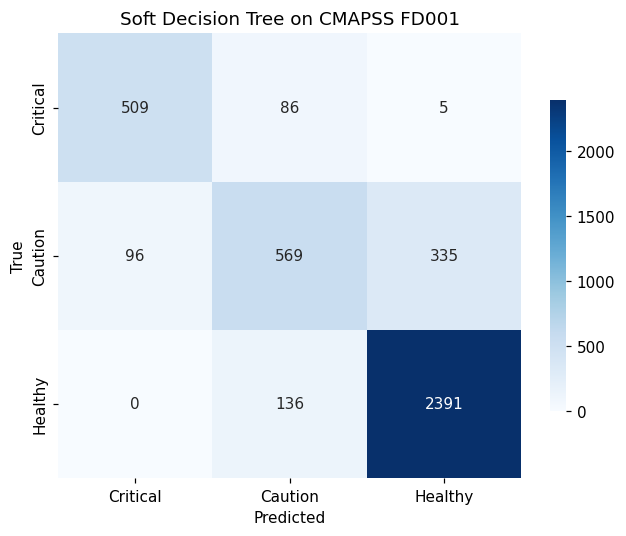
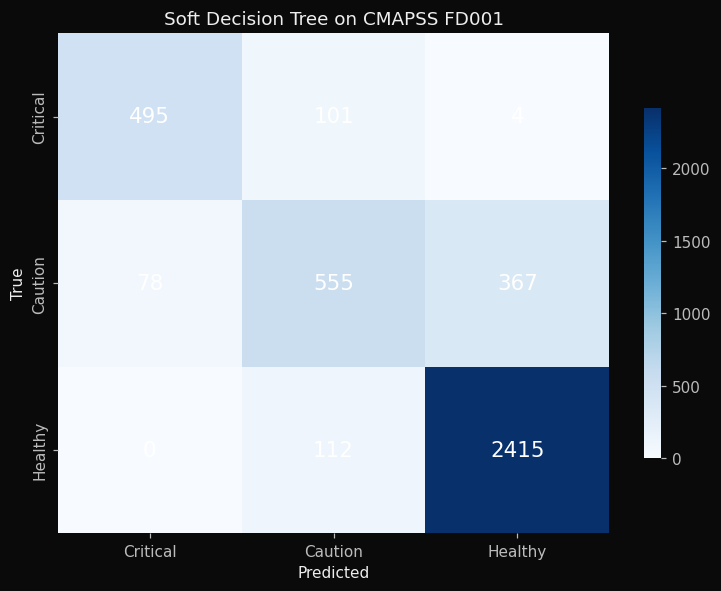
Polish step slides: dark plot facecolors, wider image columns, dataframe-shaped placeholders, fewer em-dashes
- Regenerate step9_confusion.png with dark facecolor to match slide background
  (previously had a default white background that looked like missing content)
- Add .image-card grid variant that gives the image 1.7x more space than the
  code block (Step 4 Engine 1, Step 9 Confusion, Steps 4/5/6 attack overlays)
- Replace placeholder bracket text in Step 2 and Step 3 outputs with realistic
  dataframe head() output
- Remove em-dashes from step hints and titles

diff --git a/slides/slides-cagri.html b/slides/slides-cagri.html
@@ -172,6 +172,16 @@
     border-radius: 4px;
     display: block;
   }
+  .step-card.image-card {
+    grid-template-columns: 1fr 1.7fr;
+  }
+  .step-card.image-card .step-code {
+    font-size: 0.38em;
+    line-height: 1.4;
+  }
+  .step-card.image-card .step-hint {
+    font-size: 0.44em;
+  }
   .step-tag {
     display: inline-block;
     background: #4FC3F7;
@@ -580,8 +590,12 @@ train.head()</div>
       <h4>You should see</h4>
       <div class="step-out">(20631, 26) -&gt; 100 engines
 
-[5 rows × 26 columns: engine_id,
- cycle, op1-3, s1-21]</div>
+   engine_id  cycle  op1  op2  s2  ...  s21
+0          1      1  0.0  0.0 642 ... 23.42
+1          1      2  0.0  0.0 642 ... 23.42
+2          1      3  0.0  0.0 642 ... 23.34
+3          1      4  0.0  0.0 642 ... 23.37
+4          1      5  0.0  0.0 642 ... 23.40</div>
       <p class="step-hint">100 turbofan engines, 20,631 timesteps total.</p>
     </div>
   </div>
@@ -600,13 +614,13 @@ train[['engine_id','cycle','max_cycle','RUL']].head()</div>
     </div>
     <div>
       <h4>You should see</h4>
-      <div class="step-out">   engine  cycle  max_cycle  RUL
-0       1      1        192  125
-1       1      2        192  125
-2       1      3        192  125
-3       1      4        192  125
-4       1      5        192  125</div>
-      <p class="step-hint">RUL capped at 125. Engine 1 lived 192 cycles total.</p>
+      <div class="step-out">   engine_id  cycle  max_cycle  RUL
+0          1      1        192  125
+1          1      2        192  125
+2          1      3        192  125
+3          1      4        192  125
+4          1      5        192  125</div>
+      <p class="step-hint">RUL capped at 125. Engine 1 lived 192 cycles in total.</p>
     </div>
   </div>
 </section>
@@ -614,13 +628,13 @@ train[['engine_id','cycle','max_cycle','RUL']].head()</div>
 <!-- ============ SLIDE A1-4: PLOT ENGINE 1 ============ -->
 <section class="step">
   <span class="step-tag">STEP 4 / 11</span><h2 style="display:inline">Visualize one engine's degradation</h2>
-  <div class="step-card">
+  <div class="step-card image-card">
     <div>
       <h4>Paste this</h4>
       <div class="step-code">engine = train[train['engine_id'] == 1].set_index('cycle')
 engine[['s2','s7','s11','s14']].plot(
     subplots=True, layout=(2,2), figsize=(12,6))
-plt.suptitle('Engine 1 — sensor degradation', y=1.02)
+plt.suptitle('Engine 1 sensor degradation', y=1.02)
 plt.tight_layout(); plt.show()</div>
       <p class="step-hint">s2, s11, s14 trend up. s7 trends down. The engine is wearing.</p>
     </div>
@@ -673,7 +687,7 @@ print('X shape:', X.shape, '· y shape:', y.shape)</div>
     <div>
       <h4>You should see</h4>
       <div class="step-out">X shape: (20631, 15) · y shape: (20631,)</div>
-      <p class="step-hint">15 of 21 sensors are informative. s1, s5, s10, s16, s18, s19 are constant — dropped.</p>
+      <p class="step-hint">15 of 21 sensors are informative. s1, s5, s10, s16, s18, s19 are constant and dropped.</p>
     </div>
   </div>
 </section>
@@ -734,7 +748,7 @@ Test accuracy: 0.841</div>
 <!-- ============ SLIDE A1-9: CONFUSION MATRIX ============ -->
 <section class="step">
   <span class="step-tag">STEP 9 / 11</span><h2 style="display:inline">Confusion matrix and per-class report</h2>
-  <div class="step-card">
+  <div class="step-card image-card">
     <div>
       <h4>Paste this</h4>
       <div class="step-code">labels = ['Critical', 'Caution', 'Healthy']
@@ -964,8 +978,8 @@ attack_C.csv: Tree   8/276 | RF   1/276</div>
 
 <!-- ============ SLIDE A2-4: ATTACK A ============ -->
 <section class="step">
-  <span class="step-tag a2">STEP 4 / 7</span><h2 style="display:inline">Attack A — look for two parallel lines</h2>
-  <div class="step-card">
+  <span class="step-tag a2">STEP 4 / 7</span><h2 style="display:inline">Attack A. Look for two parallel lines</h2>
+  <div class="step-card image-card">
     <div>
       <h4>Paste this</h4>
       <div class="step-code">clean = pd.read_csv('engine17_clean.csv')
@@ -980,7 +994,7 @@ for ax, s in zip(axes.flat, informative):
 axes.flat[0].legend()
 plt.tight_layout(); plt.show()</div>
       <p class="step-hint">One sensor shows the orange line shifted up by a constant offset. That is <strong>drift</strong>.<br>
-      <span class="accent">Answer: s11 — drift.</span></p>
+      <span class="accent">Answer: s11 (drift).</span></p>
     </div>
     <div class="step-out image-out">
       <img src="img/attack_A.png" alt="attack A overlay">
@@ -990,8 +1004,8 @@ plt.tight_layout(); plt.show()</div>
 
 <!-- ============ SLIDE A2-5: ATTACK B ============ -->
 <section class="step">
-  <span class="step-tag a2">STEP 5 / 7</span><h2 style="display:inline">Attack B — look for a flat horizontal line</h2>
-  <div class="step-card">
+  <span class="step-tag a2">STEP 5 / 7</span><h2 style="display:inline">Attack B. Look for a flat horizontal line</h2>
+  <div class="step-card image-card">
     <div>
       <h4>Paste this</h4>
       <div class="step-code">attack = pd.read_csv('attack_B.csv')
@@ -1005,7 +1019,7 @@ for ax, s in zip(axes.flat, informative):
 axes.flat[0].legend()
 plt.tight_layout(); plt.show()</div>
       <p class="step-hint">One sensor's orange line is flat while blue rises. <strong>Stuck-at</strong>.<br>
-      <span class="accent">Answer: s14 — stuck-at.</span></p>
+      <span class="accent">Answer: s14 (stuck-at).</span></p>
     </div>
     <div class="step-out image-out">
       <img src="img/attack_B.png" alt="attack B overlay">
@@ -1015,8 +1029,8 @@ plt.tight_layout(); plt.show()</div>
 
 <!-- ============ SLIDE A2-6: ATTACK C ============ -->
 <section class="step">
-  <span class="step-tag a2">STEP 6 / 7</span><h2 style="display:inline">Attack C — look for a noisier line</h2>
-  <div class="step-card">
+  <span class="step-tag a2">STEP 6 / 7</span><h2 style="display:inline">Attack C. Look for a noisier line</h2>
+  <div class="step-card image-card">
     <div>
       <h4>Paste this</h4>
       <div class="step-code">attack = pd.read_csv('attack_C.csv')
@@ -1030,7 +1044,7 @@ for ax, s in zip(axes.flat, informative):
 axes.flat[0].legend()
 plt.tight_layout(); plt.show()</div>
       <p class="step-hint">Same trend, much higher variance. <strong>Noise injection</strong>.<br>
-      <span class="accent">Answer: s9 — noise.</span></p>
+      <span class="accent">Answer: s9 (noise).</span></p>
     </div>
     <div class="step-out image-out">
       <img src="img/attack_C.png" alt="attack C overlay">

diff --git a/scripts/generate_slide_plots.py b/scripts/generate_slide_plots.py
@@ -59,18 +59,25 @@ tree = SoftDecisionTree(depth=4, max_epochs=30, learning_rate=0.01, penalty_coef
 tree.fit(X_tr, y_tr)
 rf = RandomForestClassifier(n_estimators=100, random_state=42).fit(X_tr, y_tr)
 
-# --- Plot 2: Confusion matrix ---
+# --- Plot 2: Confusion matrix (dark facecolor to match slide) ---
 labels = ['Critical', 'Caution', 'Healthy']
 y_pred = tree.predict(X_te)
 cm = confusion_matrix(y_te, y_pred)
-fig, ax = plt.subplots(figsize=(6, 5))
+fig, ax = plt.subplots(figsize=(7, 5.5))
+fig.patch.set_facecolor('#0a0a0a')
+ax.set_facecolor('#1a1a1a')
 sns.heatmap(cm, annot=True, fmt='d', cmap='Blues',
             xticklabels=labels, yticklabels=labels, ax=ax,
-            cbar_kws={'shrink': 0.7})
-ax.set_xlabel('Predicted'); ax.set_ylabel('True')
-ax.set_title('Soft Decision Tree on CMAPSS FD001')
+            cbar_kws={'shrink': 0.7},
+            annot_kws={'color': '#FFF', 'size': 14})
+ax.set_xlabel('Predicted', color='#EEE'); ax.set_ylabel('True', color='#EEE')
+ax.set_title('Soft Decision Tree on CMAPSS FD001', color='#EEE')
+ax.tick_params(colors='#BBB')
+cbar = ax.collections[0].colorbar
+cbar.ax.yaxis.set_tick_params(color='#BBB')
+plt.setp(plt.getp(cbar.ax.axes, 'yticklabels'), color='#BBB')
 plt.tight_layout()
-plt.savefig(os.path.join(OUT, 'step9_confusion.png'), dpi=110, bbox_inches='tight')
+plt.savefig(os.path.join(OUT, 'step9_confusion.png'), dpi=110, bbox_inches='tight', facecolor='#0a0a0a')
 plt.close()
 print('Saved: step9_confusion.png')
 